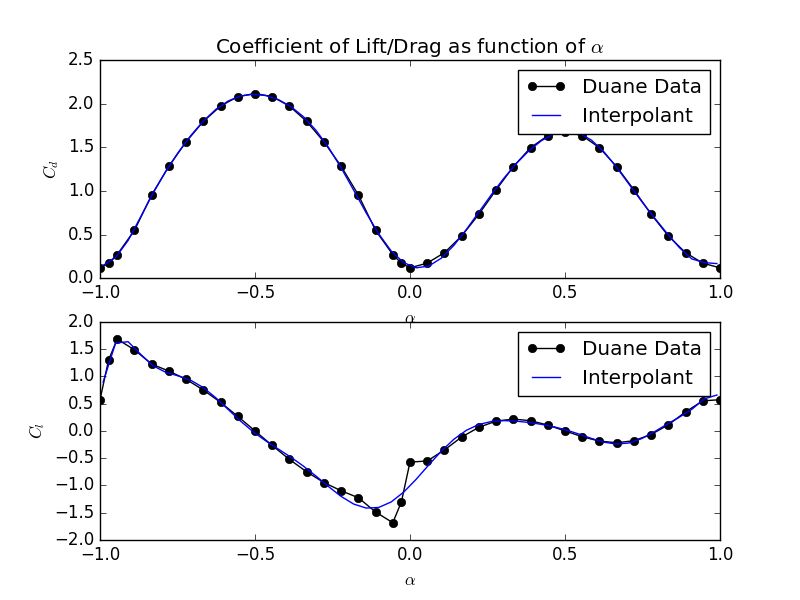
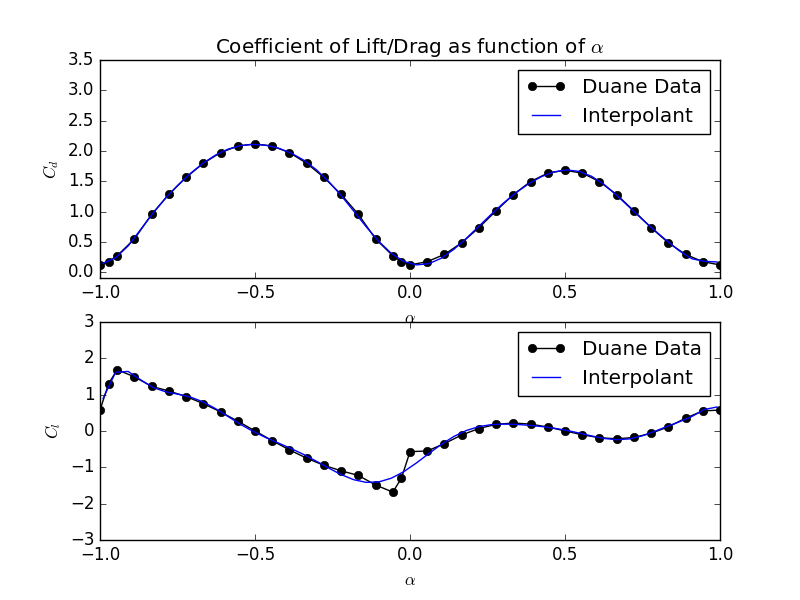
same axes are much more sane

diff --git a/disputatio/routines/drag_polars/flat.py b/disputatio/routines/drag_polars/flat.py
@@ -105,8 +105,8 @@ plt.title(r'Coefficient of Lift/Drag as function of $\alpha$')
 plt.xlabel(r'$\alpha$')
 plt.ylabel(r'$C_d$')
 plt.legend()
-
 plt.xlim([-1,1])
+plt.ylim([-0.1,3.5])
 
 plt.subplot(2, 1, 2)
 plt.plot(anglecl, cl, 'ko-',label='Duane Data')
@@ -114,6 +114,8 @@ plt.plot(anglei, P.polyval(anglei,inter_cl), color='blue',label='Interpolant')
 plt.ylabel(r'$C_l$')
 plt.xlabel(r'$\alpha$')
 plt.legend()
+plt.xlim([-1,1])
+plt.ylim([-3,3])
 plt.savefig("flat.png")
 
 

diff --git a/disputatio/routines/drag_polars/90.py b/disputatio/routines/drag_polars/90.py
@@ -106,12 +106,16 @@ plt.xlabel(r'$\alpha$')
 plt.ylabel(r'$C_d$')
 plt.legend()
 plt.xlim([-1,1])
+plt.ylim([-0.1,3.5])
+
 plt.subplot(2, 1, 2)
 plt.plot(anglecl, cl, 'ko-',label='Duane Data')
 plt.plot(anglei, P.polyval(anglei,inter_cl), color='blue',label='Interpolant')
 plt.ylabel(r'$C_l$')
 plt.xlabel(r'$\alpha$')
 plt.legend()
+plt.xlim([-1,1])
+plt.ylim([-3,3])
 plt.savefig("90.png")
 
 

diff --git a/disputatio/routines/drag_polars/semi.py b/disputatio/routines/drag_polars/semi.py
@@ -106,6 +106,7 @@ plt.xlabel(r'$\alpha$')
 plt.ylabel(r'$C_d$')
 plt.legend()
 plt.xlim([-1,1])
+plt.ylim([-0.1,3.5])
 
 plt.subplot(2, 1, 2)
 plt.plot(anglecl, cl, 'ko-',label='Duane Data')
@@ -114,6 +115,7 @@ plt.ylabel(r'$C_l$')
 plt.xlabel(r'$\alpha$')
 plt.legend()
 plt.xlim([-1,1])
+plt.ylim([-3,3])
 plt.savefig("semi.png")
 
 
